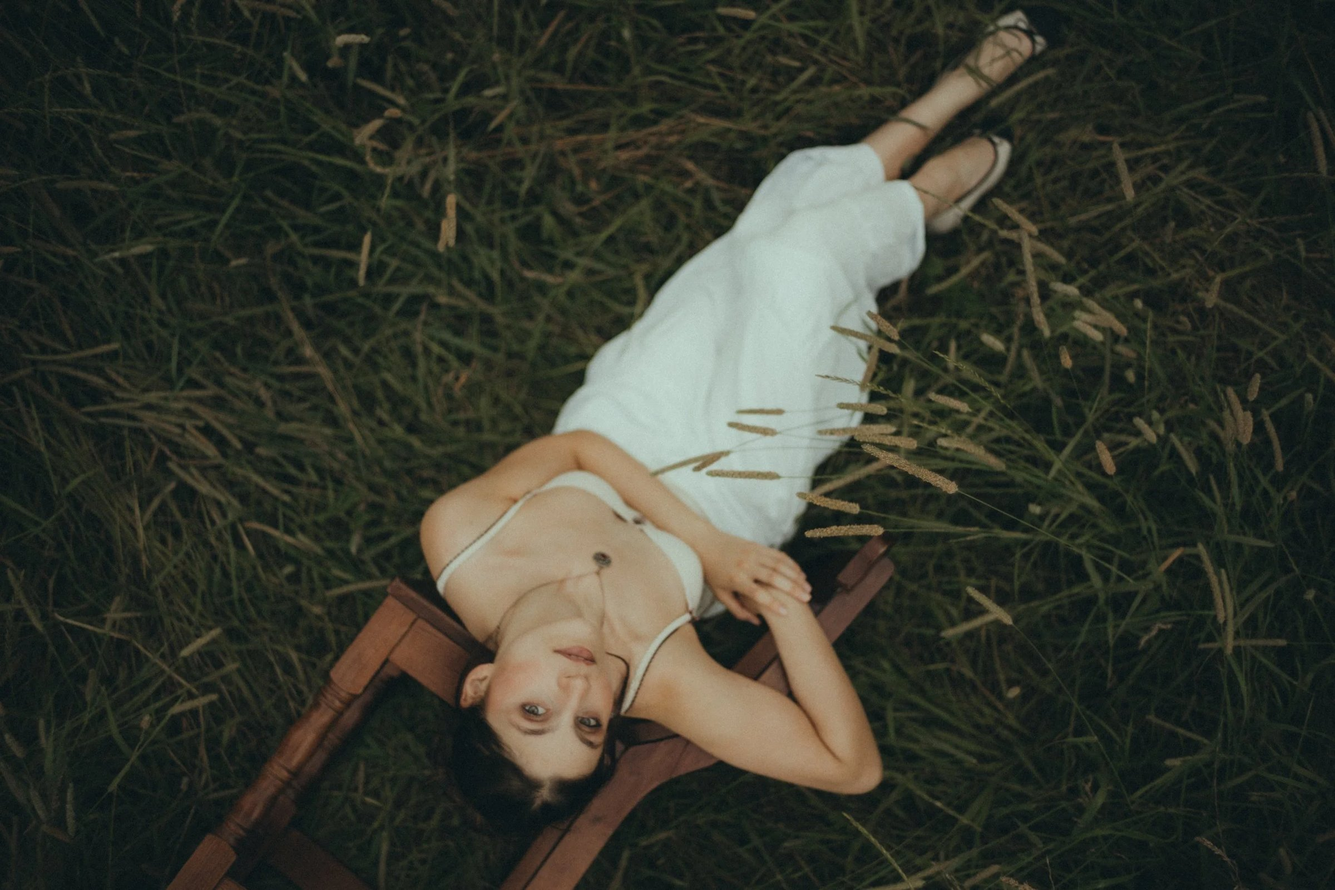
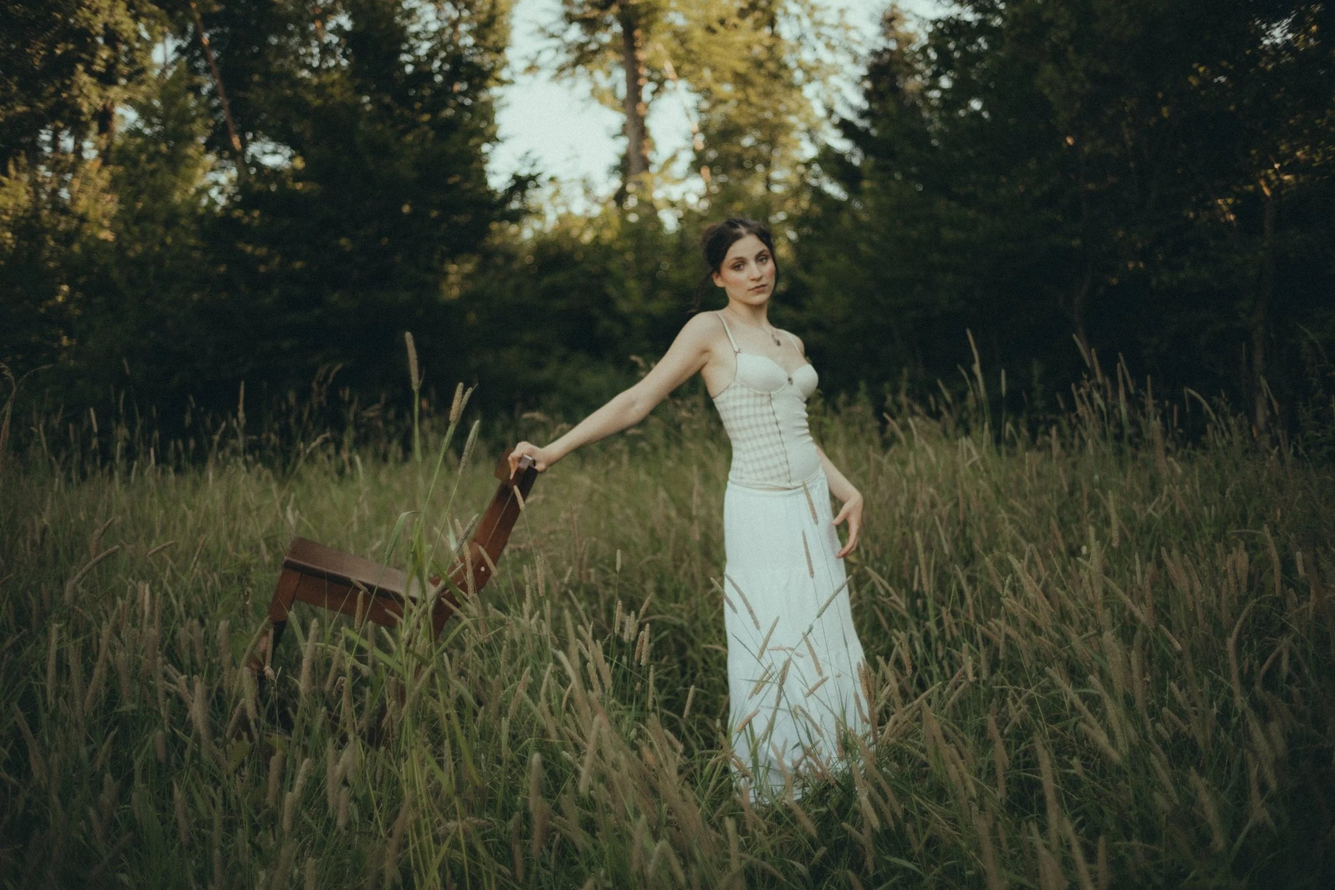
löj

diff --git a/index.html b/index.html
@@ -115,7 +115,7 @@
 
       <a class="hero-slide hero-slide--photography" href="editorial.html" data-slide="1">
         <div class="hero-slide-media">
-          <img src="assets/hero-photography.jpg?v=2" alt="Editorial photography by Lias Oertig">
+          <img src="assets/hero-photography.jpg?v=3" alt="Editorial photography by Lias Oertig">
         </div>
         <div class="hero-slide-overlay"></div>
         <span class="hero-corner hero-corner--tl">+</span>
